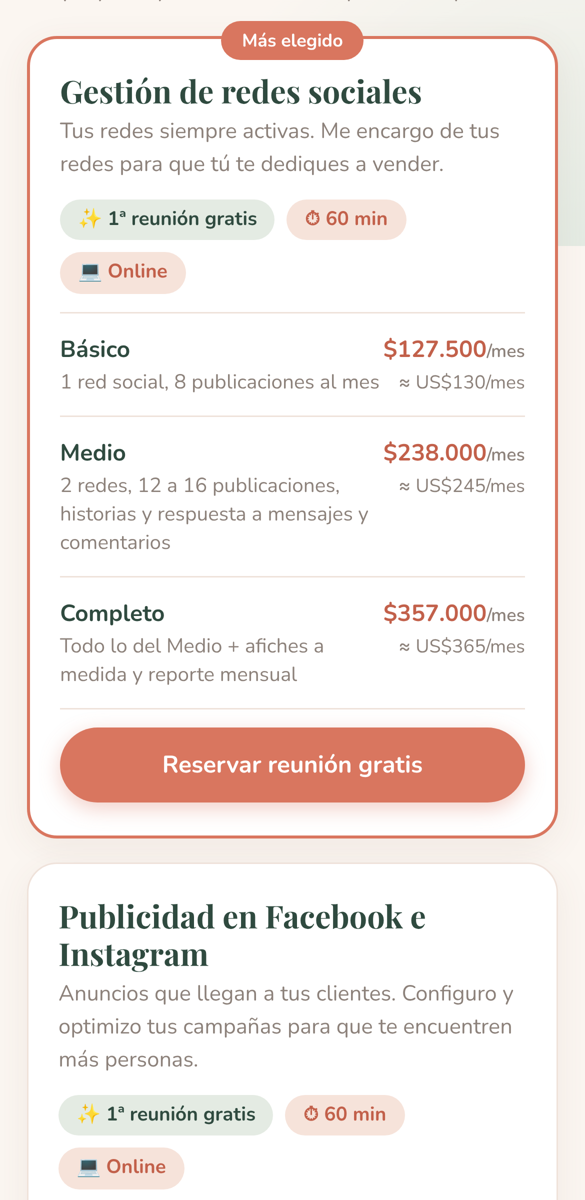
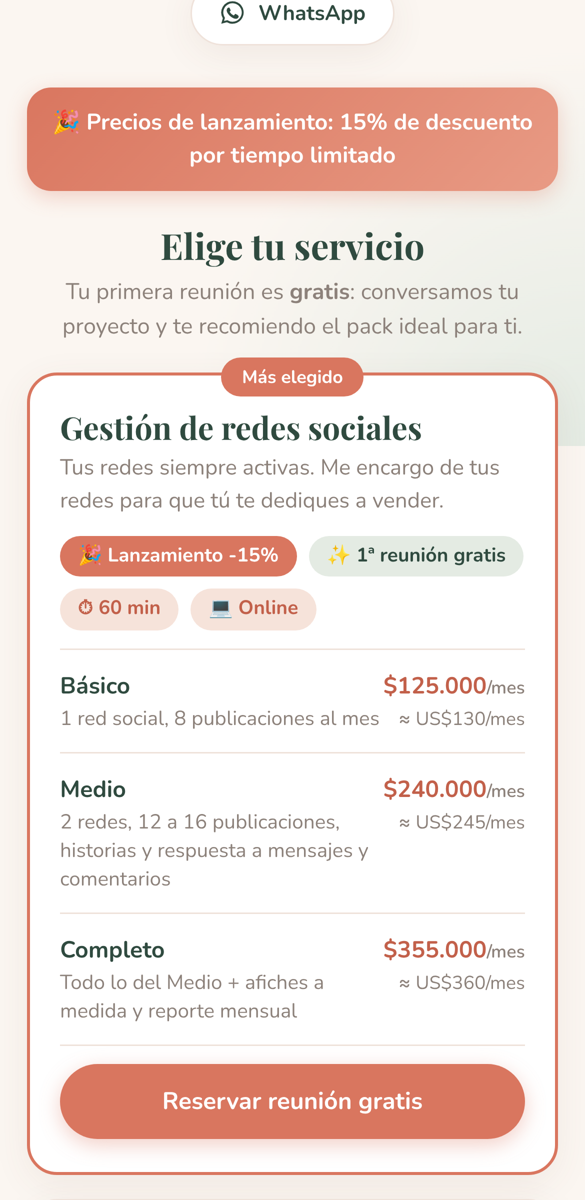
Redondea precios y agrega aviso de precios de lanzamiento
Claude-Session: https://claude.ai/code/session_019KtLQyWy18X1UYNvtiRAKR

diff --git a/index.html b/index.html
@@ -49,6 +49,9 @@
   .precio.cotiza{font-size:20px}
   .chip.gratis{background:#E4EBE3;color:var(--verde)}
   .intro{text-align:center;margin:4px 0 20px}
+  .lanzamiento{background:linear-gradient(135deg,var(--acento),#E89A84);color:#fff;border-radius:16px;padding:12px 16px;
+       text-align:center;font-weight:700;font-size:15px;margin-bottom:22px;box-shadow:0 4px 14px rgba(217,118,95,.3)}
+  .chip.oferta{background:var(--acento);color:#fff}
   .intro h2{font-size:24px;margin-bottom:6px}
   .intro p{font-size:15px;color:var(--suave);max-width:360px;margin:0 auto}
   .packs{border-top:1px solid var(--borde);margin:4px 0 12px}
@@ -145,6 +148,7 @@
   </header>
 
   <main>
+    <div class="lanzamiento oculto" id="lanzamiento"></div>
     <div class="intro">
       <h2>Elige tu servicio</h2>
       <p>Tu primera reunión es <b>gratis</b>: conversamos tu proyecto y te recomiendo el pack ideal para ti.</p>
@@ -272,19 +276,19 @@ const CONFIG = {
       descripcion: "Tus redes siempre activas. Me encargo de tus redes para que tú te dediques a vender.",
       destacado: true,
       packs: [
-        { nombre: "Básico",   detalle: "1 red social, 8 publicaciones al mes", desde: 127500, cobro: "/mes" },
-        { nombre: "Medio",    detalle: "2 redes, 12 a 16 publicaciones, historias y respuesta a mensajes y comentarios", desde: 238000, cobro: "/mes" },
-        { nombre: "Completo", detalle: "Todo lo del Medio + afiches a medida y reporte mensual", desde: 357000, cobro: "/mes" },
+        { nombre: "Básico",   detalle: "1 red social, 8 publicaciones al mes", desde: 125000, cobro: "/mes" },
+        { nombre: "Medio",    detalle: "2 redes, 12 a 16 publicaciones, historias y respuesta a mensajes y comentarios", desde: 240000, cobro: "/mes" },
+        { nombre: "Completo", detalle: "Todo lo del Medio + afiches a medida y reporte mensual", desde: 355000, cobro: "/mes" },
       ],
     },
     {
       nombre: "Publicidad en Facebook e Instagram",
       descripcion: "Anuncios que llegan a tus clientes. Configuro y optimizo tus campañas para que te encuentren más personas.",
       packs: [
-        { nombre: "Meta Impulso",      detalle: "1 campaña, 2 a 3 anuncios, ajuste semanal y reporte mensual", desde: 102000, cobro: "/mes" },
-        { nombre: "Meta Crecimiento",  detalle: "2 campañas, 4 a 6 anuncios y reporte con recomendaciones", desde: 187000, cobro: "/mes" },
-        { nombre: "Meta Tienda",       detalle: "Campaña de ventas para Shopify, píxel y optimización semanal", desde: 272000, cobro: "/mes" },
-        { nombre: "Configuración inicial", detalle: "Cuenta publicitaria, Business Manager, píxel y primera campaña", desde: 51000, hasta: 76500, cobro: "pago único" },
+        { nombre: "Meta Impulso",      detalle: "1 campaña, 2 a 3 anuncios, ajuste semanal y reporte mensual", desde: 100000, cobro: "/mes" },
+        { nombre: "Meta Crecimiento",  detalle: "2 campañas, 4 a 6 anuncios y reporte con recomendaciones", desde: 185000, cobro: "/mes" },
+        { nombre: "Meta Tienda",       detalle: "Campaña de ventas para Shopify, píxel y optimización semanal", desde: 270000, cobro: "/mes" },
+        { nombre: "Configuración inicial", detalle: "Cuenta publicitaria, Business Manager, píxel y primera campaña", desde: 50000, hasta: 75000, cobro: "pago único" },
       ],
       nota: "La inversión en anuncios la pagas aparte, directo a Meta. Si ya tienes el pack Medio o Completo de redes, Meta Impulso queda en $85.000/mes.",
     },
@@ -292,8 +296,8 @@ const CONFIG = {
       nombre: "Tu tienda online en Shopify",
       descripcion: "Tu tienda lista para vender. La creo en Shopify y te enseño a manejarla tú misma.",
       packs: [
-        { nombre: "Tienda básica",   detalle: "Hasta 20 productos, medios de pago y envíos configurados", desde: 212500, hasta: 297500, cobro: "pago único" },
-        { nombre: "Tienda completa", detalle: "Diseño a medida, más productos y capacitación para administrarla", desde: 382500, hasta: 595000, cobro: "pago único" },
+        { nombre: "Tienda básica",   detalle: "Hasta 20 productos, medios de pago y envíos configurados", desde: 210000, hasta: 295000, cobro: "pago único" },
+        { nombre: "Tienda completa", detalle: "Diseño a medida, más productos y capacitación para administrarla", desde: 380000, hasta: 595000, cobro: "pago único" },
       ],
       nota: "La suscripción de Shopify y el dominio los pagas directo.",
     },
@@ -301,8 +305,8 @@ const CONFIG = {
       nombre: "Postulación a fondos concursables",
       descripcion: "¿Quieres postular a un fondo? Te ayudo a armar una postulación ordenada y bien presentada.",
       packs: [
-        { nombre: "Postulación estándar", detalle: "Revisión de bases, formulario, presupuesto, plan de trabajo y acompañamiento (fondos de hasta $5 millones)", desde: 76500, hasta: 153000, cobro: "pago único" },
-        { nombre: "Fondo de monto mayor", detalle: "Postulaciones más largas (por ejemplo Corfo), con más documentación", desde: 212500, cobro: "pago único", prefijo: "desde" },
+        { nombre: "Postulación estándar", detalle: "Revisión de bases, formulario, presupuesto, plan de trabajo y acompañamiento (fondos de hasta $5 millones)", desde: 75000, hasta: 155000, cobro: "pago único" },
+        { nombre: "Fondo de monto mayor", detalle: "Postulaciones más largas (por ejemplo Corfo), con más documentación", desde: 210000, cobro: "pago único", prefijo: "desde" },
       ],
       nota: "Postular no tiene costo: lo que cobro es preparar y ordenar tu postulación.",
     },
@@ -310,12 +314,15 @@ const CONFIG = {
       nombre: "Crea tu empresa y trámites SII",
       descripcion: "Formaliza tu emprendimiento sin enredos y queda lista para emitir boletas y facturas.",
       packs: [
-        { nombre: "Básico",   detalle: "Constitución de empresa, inicio de actividades, acreditación de domicilio y boletas/facturas", desde: 51000, cobro: "pago único" },
-        { nombre: "Completo", detalle: "Todo lo del Básico + apertura de cuenta bancaria y orientación para la patente comercial", desde: 93500, cobro: "pago único" },
+        { nombre: "Básico",   detalle: "Constitución de empresa, inicio de actividades, acreditación de domicilio y boletas/facturas", desde: 50000, cobro: "pago único" },
+        { nombre: "Completo", detalle: "Todo lo del Básico + apertura de cuenta bancaria y orientación para la patente comercial", desde: 95000, cobro: "pago único" },
       ],
       nota: "La firma electrónica y otros gastos externos van aparte.",
     },
   ],
+
+  // 🎉 Aviso de precios de lanzamiento. Para quitarlo, déjalo vacío: lanzamiento: "",
+  lanzamiento: "Precios de lanzamiento: 15% de descuento por tiempo limitado",
 
   notaGeneral: "Precios en pesos chilenos. Los valores en dólares son aproximados.",
 };
@@ -352,6 +359,7 @@ if (CONFIG.instagram) redes += `<a class="btn-red" href="https://instagram.com/$
 if (CONFIG.whatsapp) redes += `<a class="btn-red" href="${linkWsp("¡Hola Romina! Vengo de tu página y tengo una consulta 😊")}" target="_blank" rel="noopener">${iconos.wsp} WhatsApp</a>`;
 $("redes").innerHTML = redes;
 $("nota-general").textContent = CONFIG.notaGeneral;
+if (CONFIG.lanzamiento) { $("lanzamiento").textContent = "🎉 " + CONFIG.lanzamiento; $("lanzamiento").classList.remove("oculto"); }
 $("pie").textContent = `© ${new Date().getFullYear()} ${CONFIG.nombre}`;
 document.title = `${CONFIG.nombre} · Reserva tu asesoría`;
 
@@ -368,7 +376,7 @@ $("servicios").innerHTML = CONFIG.servicios.map((s, i) => `
     ${s.destacado ? '<span class="cinta">Más elegido</span>' : ""}
     <h3>${s.nombre}</h3>
     <p class="desc">${s.descripcion}</p>
-    <div class="chips"><span class="chip gratis">✨ 1ª reunión gratis</span><span class="chip">⏱ ${CONFIG.duracionMin} min</span><span class="chip">💻 Online</span></div>
+    <div class="chips">${CONFIG.lanzamiento ? '<span class="chip oferta">🎉 Lanzamiento -15%</span>' : ""}<span class="chip gratis">✨ 1ª reunión gratis</span><span class="chip">⏱ ${CONFIG.duracionMin} min</span><span class="chip">💻 Online</span></div>
     <div class="packs">${s.packs.map(k => { const pr = precioPack(k); return `
       <div class="pack">
         <div class="pack-top"><b>${k.nombre}</b><span class="pack-precio">${pr.clp}<small>${pr.cobro}</small></span></div>
